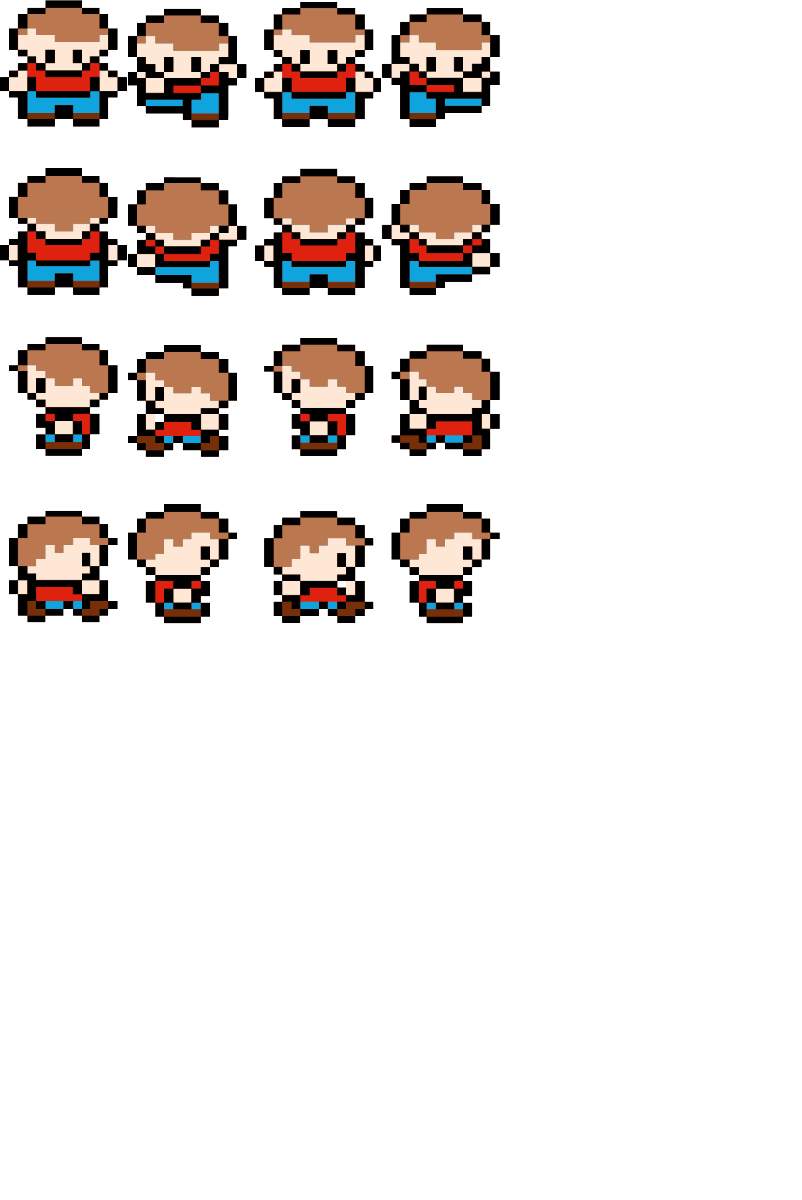
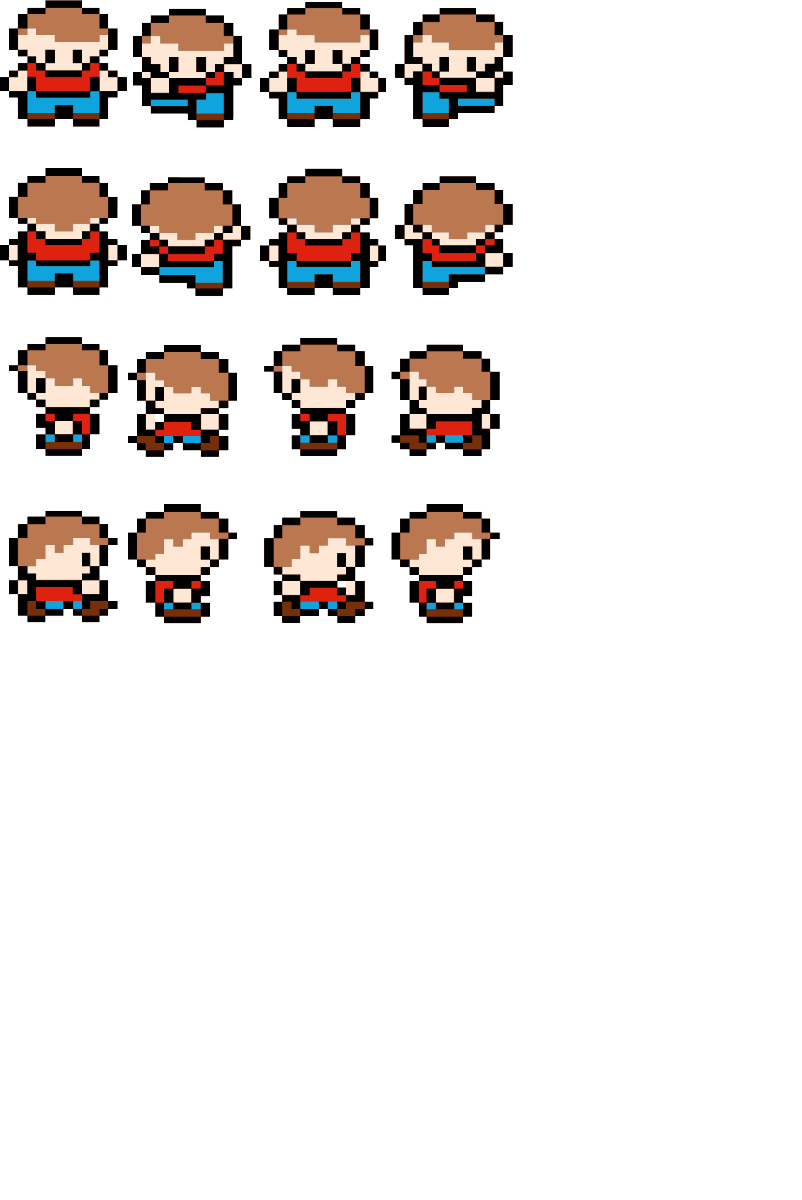
Решил некоторые проблемы анимации. Изменил структуру кода, теперь кода меньше, менешь статических полей. Всё равно остаётся некая неинтуитивность. Кадры лучше вырезаны, отрисовывается лучше.

Changed region(s): [[0.1559, 0.0, 0.6546, 0.1542], [0.1559, 0.1542, 0.6546, 0.2467]]

diff --git a/Sokoban/GameClasses/View/Painter.cs b/Sokoban/GameClasses/View/Painter.cs
@@ -2,6 +2,7 @@
 using System.Collections.Generic;
 using System.Drawing;
 using System.Linq;
+using System.Runtime.InteropServices;
 using System.Threading;
 using System.Windows.Forms;
 
@@ -9,19 +10,8 @@ namespace Sokoban.GameClasses.View
 {
     public class Painter
     {
-        public static Point start;
-        public static bool IsKeyPress;
+        public static Point start;        
         public static int idCurrentFrame;
-        delegate int getX(int x, int dx);
-        delegate int getY(int y, int dy);
-        static getX funX;
-        static getY funY;
-        public static Bitmap[] currentFrames;
-        static Painter()
-        {
-            funX = (int x, int dx) => x;
-            funY = (int y, int dy) => y;
-        }
 
         public static void Paint(object sender, PaintEventArgs e, Map map)
         {
@@ -40,41 +30,10 @@ namespace Sokoban.GameClasses.View
 
         public static void AnimatePlayer(Map map, Graphics g)
         {
-            var p = map.Player;           
-            start.X = funX(start.X, 32* idCurrentFrame);
-            start.Y = funY(start.Y, 32* idCurrentFrame);
-            g.DrawImage(currentFrames[idCurrentFrame], start);
-        }
-
-        public static Bitmap[] GetDirectionFrames(Map map)
-        {
             var p = map.Player;
-            Bitmap[] currentFrames = null;
-            if (p.Direction == Direction.Left)
-            {
-                currentFrames = p.playerFrames[Direction.Left];
-                funX = (int x, int dx) => x - dx;
-                funY = (int y, int dy) => y;
-            }
-            else if (p.Direction == Direction.Right)
-            {
-                currentFrames = p.playerFrames[Direction.Right];
-                funX = (int x, int dx) => x + dx;
-                funY = (int y, int dy) => y;
-            }
-            else if (p.Direction == Direction.Up)
-            {
-                currentFrames = p.playerFrames[Direction.Up];
-                funX = (int x, int dx) => x;
-                funY = (int y, int dy) => y - dy;
-            }
-            else
-            {
-                currentFrames = p.playerFrames[Direction.Down];
-                funX = (int x, int dx) => x;
-                funY = (int y, int dy) => y + dy;
-            }
-            return currentFrames;
+            start.X += 21 * idCurrentFrame * map.Player.DirX;
+            start.Y += 21 * idCurrentFrame * map.Player.DirY;
+            g.DrawImage(p.playerFrames[p.Direction, idCurrentFrame], start);
         }
 
         public static List<Bitmap[]> getFrames(Bitmap bmp, Rectangle selection, int countFrames, int dx, int dy)

diff --git a/Sokoban/Form1.cs b/Sokoban/Form1.cs
@@ -19,6 +19,7 @@ namespace Sokoban
     public partial class Form1 : Form
     {
         public static Timer timer1 = new Timer();
+        public static bool IsKeyPress;
         public Map map;
 
         public Form1()
@@ -30,40 +31,41 @@ namespace Sokoban
             timer1.Interval = 150;
             timer1.Tick += new EventHandler(Update);
             KeyDown += new KeyEventHandler(OnPress);
-            GameInitialisation();
-            Painter.currentFrames = Painter.GetDirectionFrames(map);
-            Painter.start = new Point(map.Player.X, map.Player.Y);            
-            timer1.Start();
+            GameInitialisation();           
         }
 
         public void GameInitialisation()
         {
-            map = new Map(Levels.level_1);           
+            map = new Map(Levels.level_1);
+            Painter.start = new Point(map.Player.X, map.Player.Y);
+            timer1.Start();
         }
 
         public void Update(object sender, EventArgs e)
-        {          
-            Invalidate();         
-            if(Painter.IsKeyPress)
+        {           
+            if (IsKeyPress)
             {
-                Painter.idCurrentFrame += 1;
-                if (Painter.idCurrentFrame == 3)
+                Painter.idCurrentFrame += 1;                    
+                if (Painter.idCurrentFrame == 4)
                 {
-                    Painter.idCurrentFrame = 0;                    
-                    Painter.IsKeyPress = false;
+                    Painter.idCurrentFrame = 0;
+                    IsKeyPress = false;
                 }
-                Painter.currentFrames = Painter.GetDirectionFrames(map);
             }
             else
             {
                 Painter.start = new Point(map.Player.X, map.Player.Y);
-            }               
+            }
+            Invalidate();            
         }
 
         private void OnPress(object sender, KeyEventArgs e)
         {
-            Painter.start = new Point(map.Player.X, map.Player.Y);
-            Painter.IsKeyPress = Controller.PlayerMove(e, map);           
+            if (!IsKeyPress)
+            {
+                Painter.start = new Point(map.Player.X, map.Player.Y);
+                IsKeyPress = Controller.PlayerMove(e, map);
+            }                   
         }
 
         private void OnPaint(object sender, PaintEventArgs e)

diff --git a/Sokoban/GameClasses/View/PlayerAnimate.cs b/Sokoban/GameClasses/View/PlayerAnimate.cs
@@ -16,20 +16,10 @@ namespace Sokoban.GameClasses.View
         private Bitmap[] leftFrames;
         private Bitmap[] rightFrames;
 
-        public PlayerFrames(
-            Bitmap[] downFrames, Bitmap[] upFrames, Bitmap[] leftFrames, Bitmap[] rightFrames, int countFrames)
-        {
-            this.leftFrames = leftFrames;
-            this.rightFrames = rightFrames;
-            this.downFrames = downFrames;
-            this.upFrames = upFrames;
-            this.countFrames = countFrames;
-        }
-
         public PlayerFrames(Bitmap sourse, int dx, int dy, int countFrames)
         {
-            var resulution = new Rectangle(new Point(0, 0), new Size(128, 128));
-            var frames = Painter.getFrames(sourse, resulution, 4, 2, 168);
+            var resulution = new Rectangle(new Point(0, 0), new Size(Levels.Width, Levels.Height));
+            var frames = Painter.getFrames(sourse, resulution, countFrames, dx, dy);
             this[Direction.Down] = frames[0];
             this[Direction.Up] = frames[1];
             this[Direction.Left] = frames[2];

diff --git a/Sokoban/GameClasses/Player.cs b/Sokoban/GameClasses/Player.cs
@@ -12,7 +12,7 @@ namespace Sokoban
             X = x; Y = y;
             Model = new Bitmap(Path.Combine(new DirectoryInfo(Directory.GetCurrentDirectory()).Parent.Parent.FullName.ToString(), "Models\\MainHero.png"));
             var source = new Bitmap(Path.Combine(new DirectoryInfo(Directory.GetCurrentDirectory()).Parent.Parent.FullName.ToString(), "Models\\PlayerPicture.png"));
-            playerFrames = new PlayerFrames(source, 2, 300, 4);
+            playerFrames = new PlayerFrames(source, 1, 168, 4);
         }
         public Image Model { get; }
         
